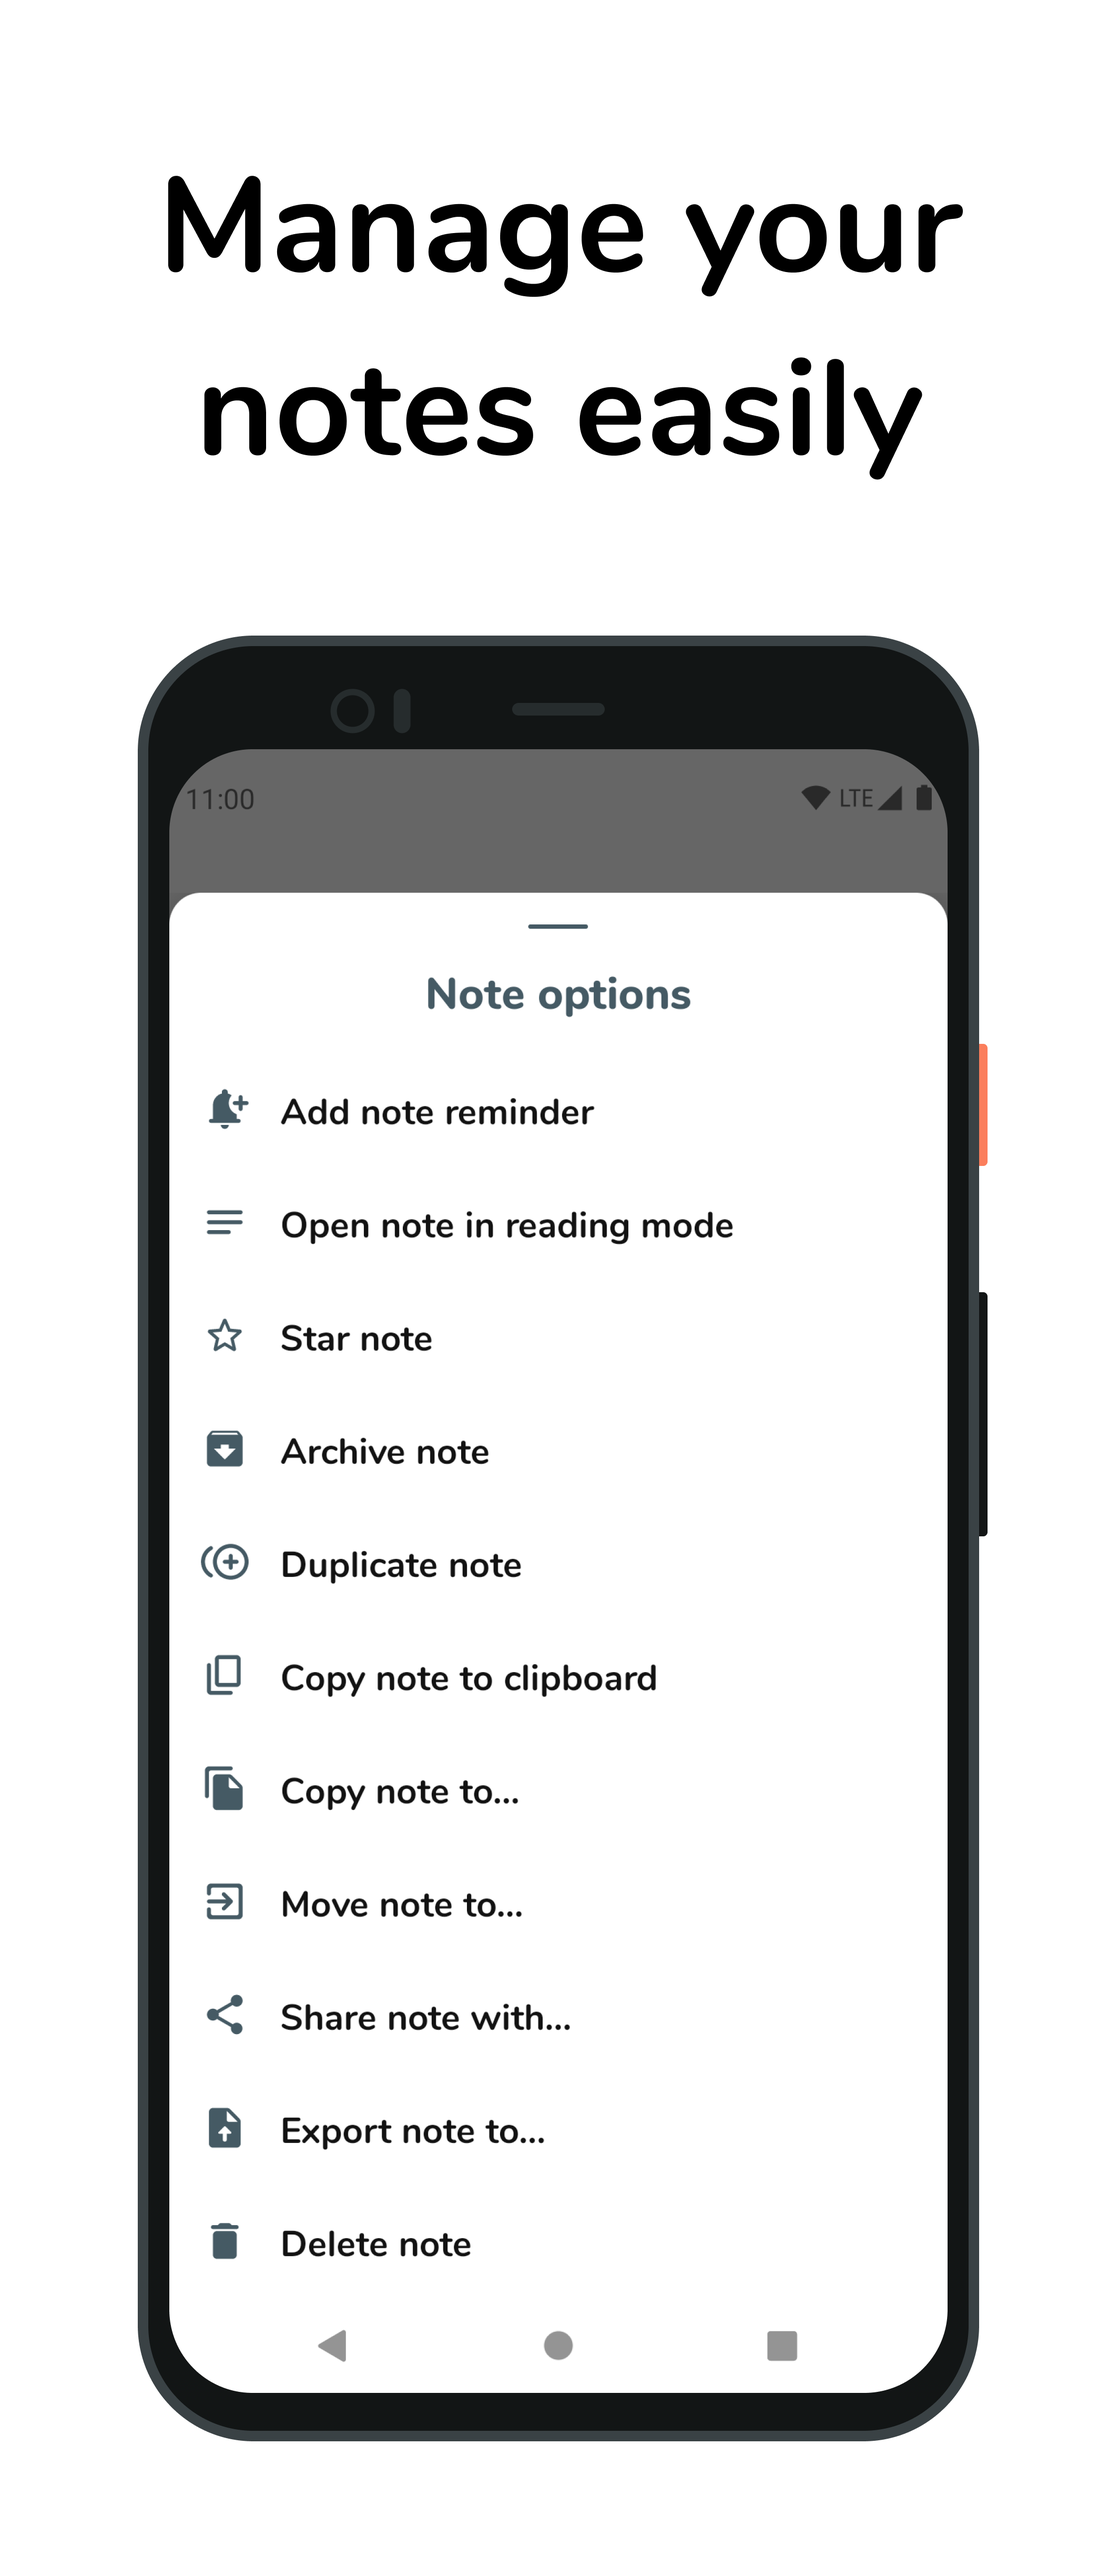
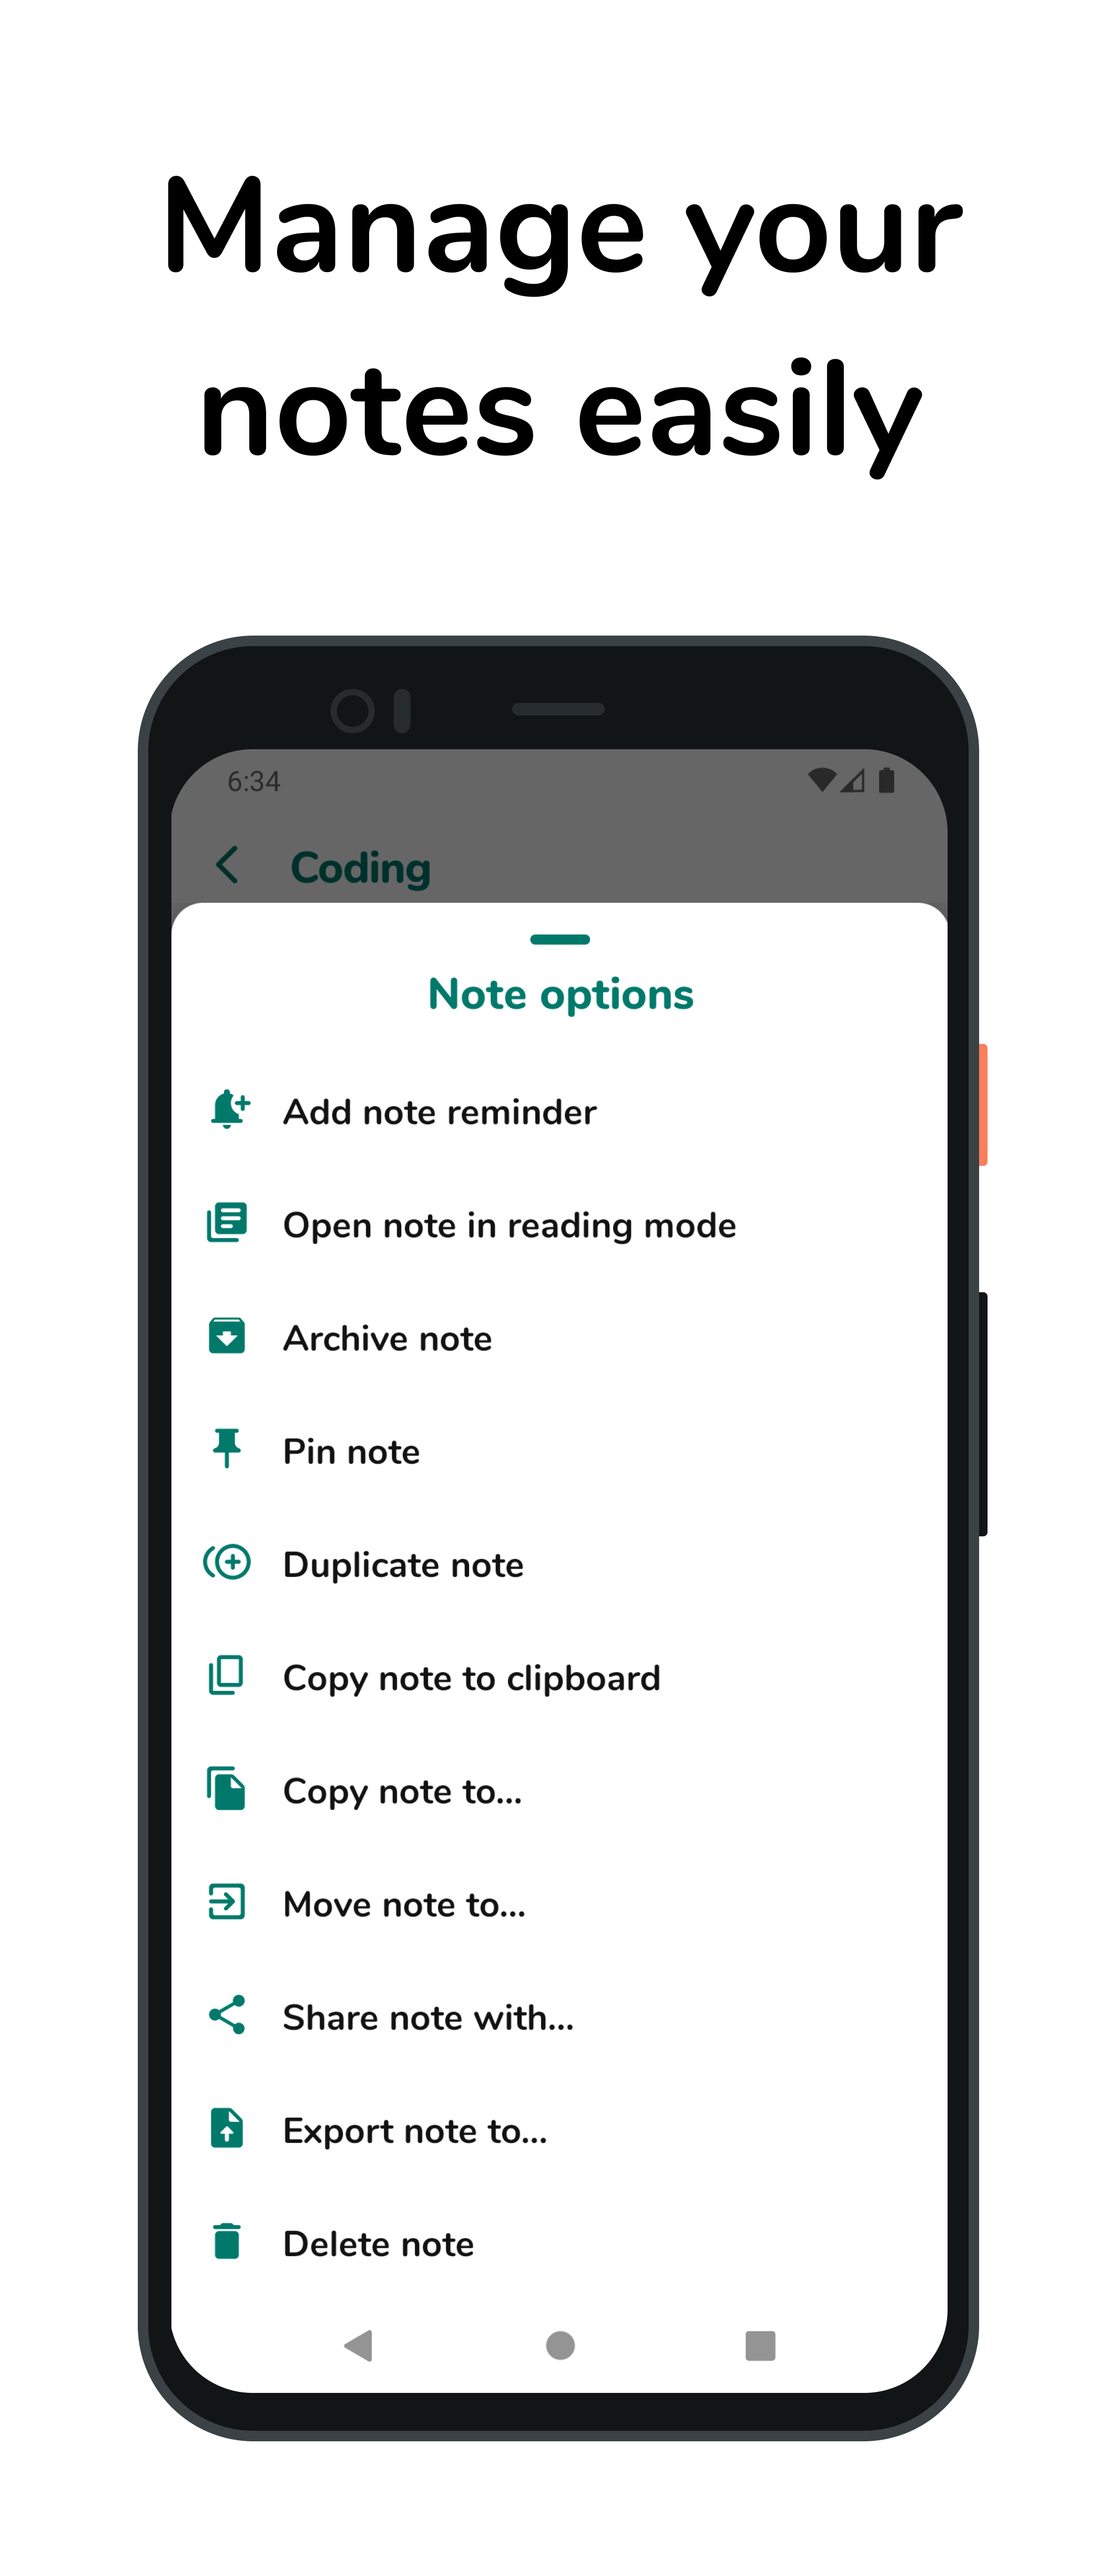
Update README and screenshots

diff --git a/README.md b/README.md
@@ -1,46 +1,51 @@
 # Noto
 
-#### Android notes application built using kotlin.
+#### Simple and minimal note-taking Android application built with Kotlin.
+
+## Download
 
 [<img src="https://play.google.com/intl/en_us/badges/images/generic/en_badge_web_generic.png" alt="Get it on Google Play" height="80">](https://play.google.com/store/apps/details?id=com.noto)
 
 ## Motivation
 
-The app is a part of my [Portfolio](https://alialbaali.com) projects. It showcases my skills regarding developing Android apps.
-
-## Screenshots
-
-<p float="left">
-<img src="Screenshots/Frame%203.png" height="400"  alt="screenshot"/>
-<img src="Screenshots/Frame%206.png" height="400"  alt="screenshot"/>
-<img src="Screenshots/Frame%205.png" height="400"  alt="screenshot"/>
-<img src="Screenshots/Frame%204.png" height="400"  alt="screenshot"/>
-<img src="Screenshots/Frame%202.png" height="400"  alt="screenshot"/>
-<img src="Screenshots/Frame%201.png" height="400"  alt="screenshot"/>
-<img src="Screenshots/Frame%208.png" height="400"  alt="screenshot"/>
-<img src="Screenshots/Frame%207.png" height="400"  alt="screenshot"/>
-</p>
+Noto is part of my [portfolio](https://alialbaali.com) projects. It showcases my skills regarding developing Android apps.
 
 ## Features
 
-* Minimal and simple design
-* Group notes using libraries.
+* Minimal, modern, and simplistic design
+* Grouping notes using libraries with colors and names
+* Filtering notes using labels configured for each library
+* Libraries archive
 * List and grid layout modes
 * Reminders
 * Auto save
 * Reading mode
-* Each library has notes archive.
+* Each library has its own archive.
 * Duplicating notes within the same library
 * Moving notes to different libraries
 * Coping notes to different libraries
 * Notes word-count
-* Starred notes
+* Pinned libraries
+* Pinned notes
+* Custom sorting and grouping
 * Export notes and libraries
+* Small APK size (around 3MB)
 * Dark mode
 * Support for devices with API 21 (Lollipop) and up
 * No permissions are required
 * All data stored locally on the device
 * Ad-Free
+
+## Contributions
+Contributions are always welcome! If you would like to contribute, please feel free to file an issue or create a PR.
+
+#### Special thanks to everyone who has helped and contributed in the development.
+
+## Translation and Localization
+
+If you would like to translate the app, please contact me via [email](mailto:ali@albaali.com).
+
+#### Special thanks to <a href="https://linkedin.com/in/nuraysabri/">Nuray Sabri</a> and <a href="https://sakci.me">Alparslan Şakçi</a> for the Turkish localization.
 
 ## Architecture
 
@@ -58,6 +63,18 @@ Contains database and repository and DAO implementations.
 
 Contains all the UI logic.
 
-## License
+## Screenshots
 
+<p float="left">
+<img src="Screenshots/Frame%203.png" height="400"  alt="screenshot"/>
+<img src="Screenshots/Frame%206.png" height="400"  alt="screenshot"/>
+<img src="Screenshots/Frame%205.png" height="400"  alt="screenshot"/>
+<img src="Screenshots/Frame%204.png" height="400"  alt="screenshot"/>
+<img src="Screenshots/Frame%202.png" height="400"  alt="screenshot"/>
+<img src="Screenshots/Frame%201.png" height="400"  alt="screenshot"/>
+<img src="Screenshots/Frame%208.png" height="400"  alt="screenshot"/>
+<img src="Screenshots/Frame%207.png" height="400"  alt="screenshot"/>
+</p>
+
+## License
 Noto is distributed under the terms of the Apache License (Version 2.0). See [License](LICENSE.md) for details.
